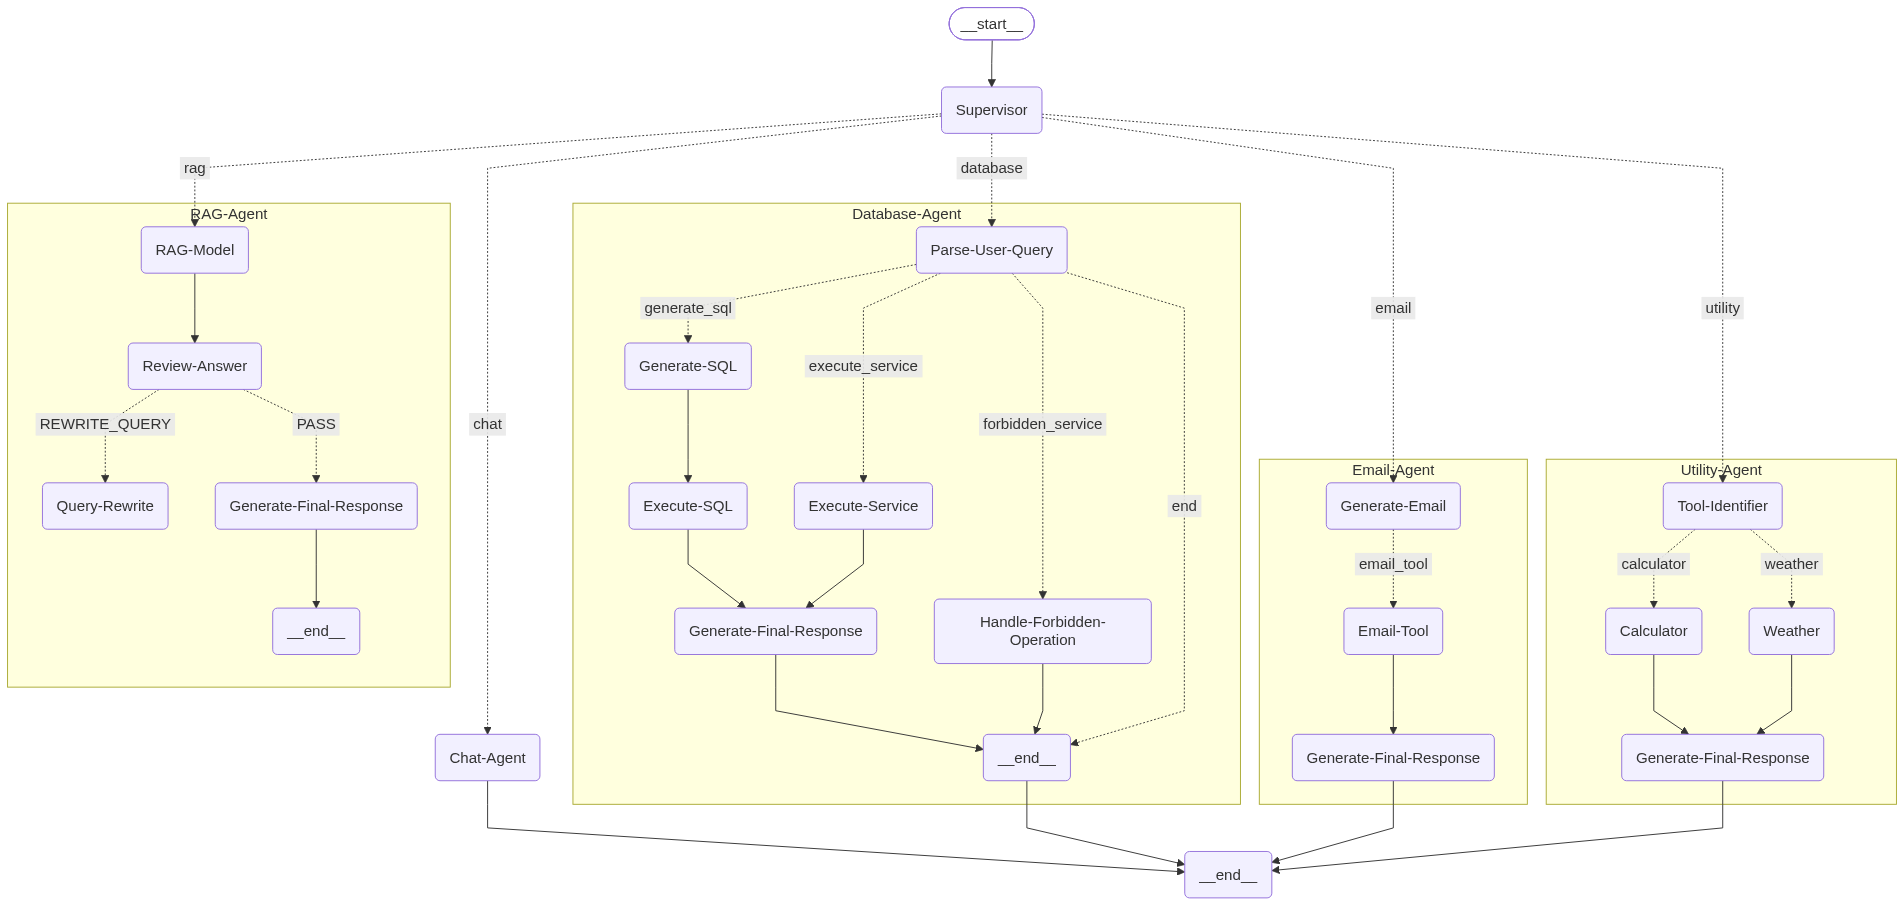
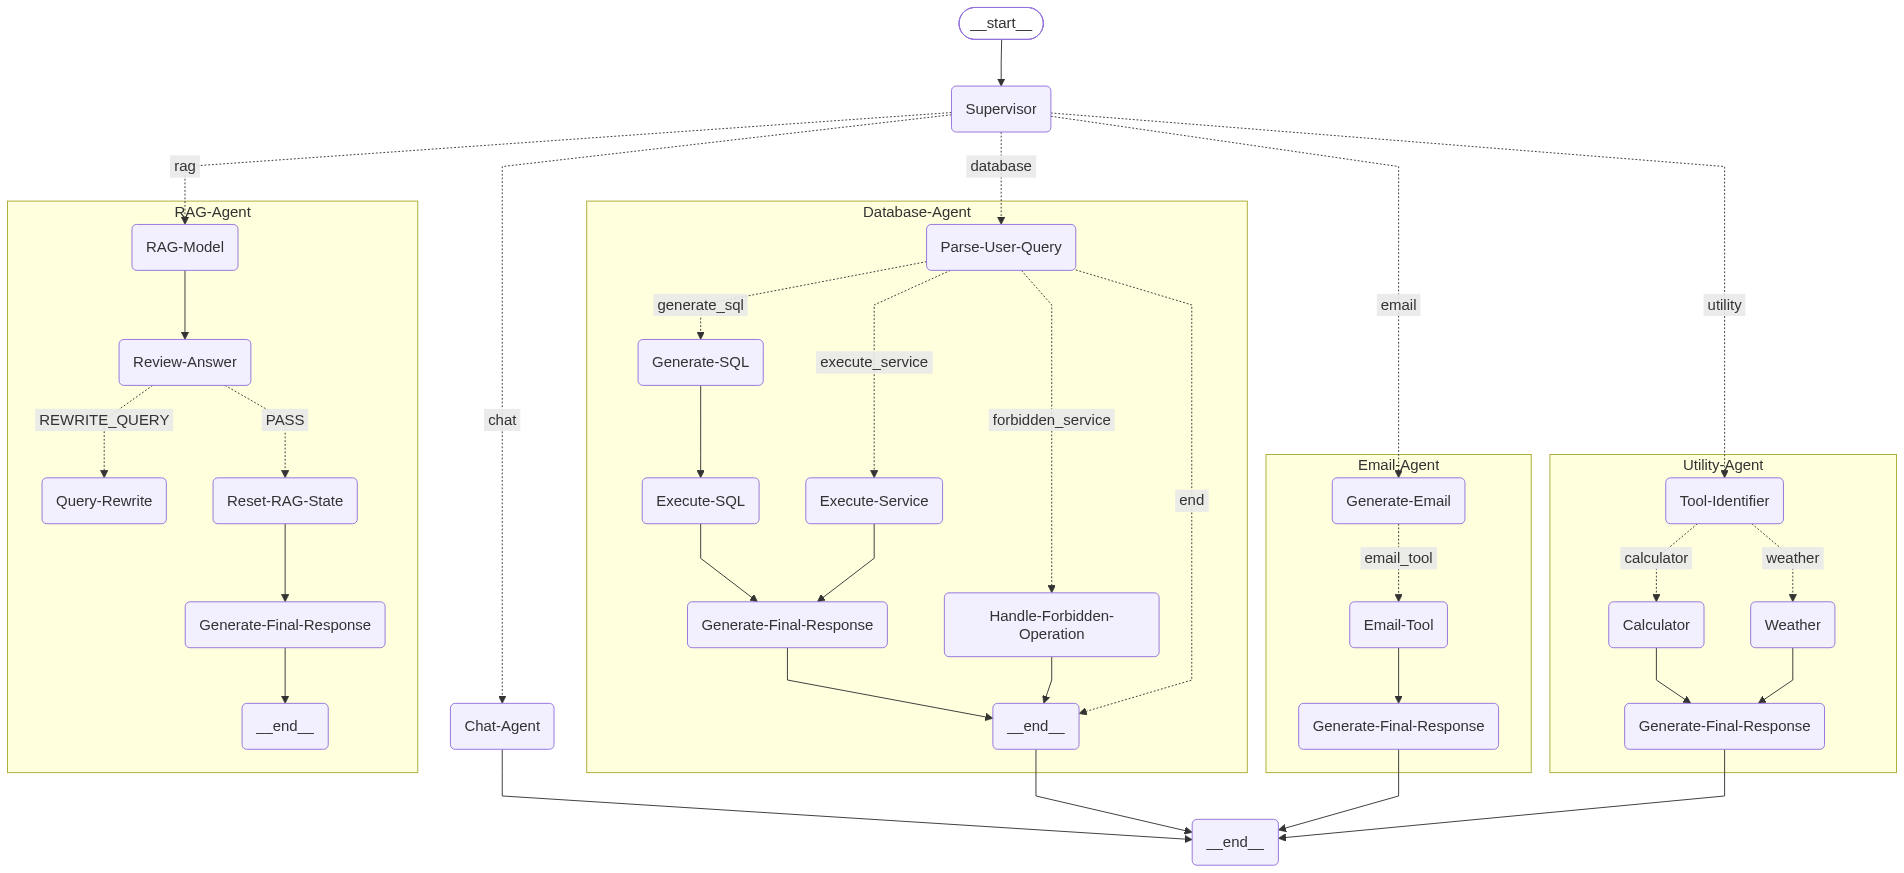
Rag State Management

diff --git a/src/LLM/agents/RAG/graph/RAG.nodes.ts b/src/LLM/agents/RAG/graph/RAG.nodes.ts
@@ -47,8 +47,11 @@ export const ragNode = async (state: typeof GraphState.State) => {
 
   return {
     ...appendAiMessageToState(result),
-    ragContext: context,
-    currentQuery: lastMessage.content,
+    rag: {
+      ...state.rag,
+      context,
+      currentQuery: lastMessage.content,
+    },
   };
 };
 
@@ -59,8 +62,8 @@ export const reviewAnswerNode = async (state: typeof GraphState.State) => {
   const ragAnswer = state.messages.at(-1);
 
   const result = await ragAnswerReviewChain.invoke({
-    question: state.currentQuery,
-    context: state.ragContext,
+    question: state.rag.currentQuery,
+    context: state.rag.context,
     answer: ragAnswer?.content,
   });
 
@@ -73,14 +76,16 @@ export const reviewAnswerNode = async (state: typeof GraphState.State) => {
 /*                             Query Rewrite Node                             */
 /* -------------------------------------------------------------------------- */
 export const queryRewriteNode = async (state: typeof GraphState.State) => {
-  if (state.queryRewriteCount >= 2) {
+  if (state.rag.queryRewriteCount >= 2) {
     return new Command({
       update: {
-        currentQuery: "",
-        ragContext: "",
-        answerReviewResult: "",
-        rewrittenQuery: "",
-        queryRewriteCount: 0,
+        rag: {
+          currentQuery: "",
+          context: "",
+          answerReviewResult: "",
+          rewrittenQuery: "",
+          queryRewriteCount: 0,
+        },
       },
       goto: "END",
     });
@@ -89,17 +94,35 @@ export const queryRewriteNode = async (state: typeof GraphState.State) => {
   const previousAnswer = state.messages.at(-1);
 
   const result = await queryRewriteChain.invoke({
-    question: state?.currentQuery,
-    context: state.ragContext,
+    question: state.rag.currentQuery,
+    context: state.rag.context,
     previousAnswer: previousAnswer?.content,
   });
 
   return new Command({
     update: {
-      currentQuery: result.rewrittenQuery,
-      queryRewriteCount: state.queryRewriteCount + 1,
+      rag: {
+        ...state.rag,
+        currentQuery: result.rewrittenQuery,
+        queryRewriteCount: state.rag.queryRewriteCount + 1,
+      },
     },
     goto: "RAG-Model",
     graph: Command.PARENT,
   });
+};
+
+/* -------------------------------------------------------------------------- */
+/*                               Reset RAG State                              */
+/* -------------------------------------------------------------------------- */
+export const resetRagStateNode = async () => {
+  return {
+    rag: {
+      currentQuery: "",
+      context: "",
+      rewrittenQuery: "",
+      answerReviewResult: "",
+      queryRewriteCount: 0,
+    },
+  };
 };

diff --git a/src/LLM/agents/RAG/graph/RAG.graph.ts b/src/LLM/agents/RAG/graph/RAG.graph.ts
@@ -5,7 +5,7 @@ import { GraphState } from "../../../graphs/state";
 import { generateFinalizeResponse } from "../../../helpers/response.helpers";
 import { emptyNode, visualizeGraph } from "../../../helpers/graph.helpers";
 
-import { queryRewriteNode, ragNode, reviewAnswerNode } from "./RAG.nodes";
+import { queryRewriteNode, ragNode, resetRagStateNode, reviewAnswerNode } from "./RAG.nodes";
 import { checkpointer } from "../../../../../config/database/checkpointer";
 
 export const ragGraphObject = new StateGraph(GraphState)
@@ -25,6 +25,7 @@ export const ragGraphObject = new StateGraph(GraphState)
   .addNode("Review-Answer", emptyNode)
   .addNode("Query-Rewrite", queryRewriteNode)
   .addNode("Generate-Final-Response", generateFinalizeResponse)
+  .addNode("Reset-RAG-State", resetRagStateNode)
 
   /* -------------------------------------------------------------------------- */
   /*                              Edges Definition                              */
@@ -34,10 +35,11 @@ export const ragGraphObject = new StateGraph(GraphState)
   .addEdge("RAG-Model", "Review-Answer")
 
   .addConditionalEdges("Review-Answer", reviewAnswerNode, {
-    PASS: "Generate-Final-Response",
+    PASS: "Reset-RAG-State",
     REWRITE_QUERY: "Query-Rewrite",
   })
 
+  .addEdge("Reset-RAG-State", "Generate-Final-Response")
   .addEdge("Generate-Final-Response", END);
 
 export const ragGraph = ragGraphObject.compile({

diff --git a/src/LLM/graphs/state.ts b/src/LLM/graphs/state.ts
@@ -21,28 +21,20 @@ export const GraphState = Annotation.Root({
 
   humanApproved: Annotation<boolean>(),
 
-  currentQuery: Annotation<string>({
+  rag: Annotation<{
+    currentQuery: string;
+    context: string;
+    answerReviewResult: string;
+    rewrittenQuery: string;
+    queryRewriteCount: number;
+  }>({
     reducer: (_, update) => update,
-    default: () => "",
-  }),
-
-  ragContext: Annotation<string>({
-    reducer: (_, update) => update,
-    default: () => "",
-  }),
-
-  answerReviewResult: Annotation<string>({
-    reducer: (_, update) => update,
-    default: () => "",
-  }),
-
-  rewrittenQuery: Annotation<string>({
-    reducer: (_, update) => update,
-    default: () => "",
-  }),
-
-  queryRewriteCount: Annotation<number>({
-    reducer: (_, update) => update,
-    default: () => 0,
+    default: () => ({
+      currentQuery: "",
+      context: "",
+      answerReviewResult: "",
+      rewrittenQuery: "",
+      queryRewriteCount: 0,
+    }),
   }),
 });
